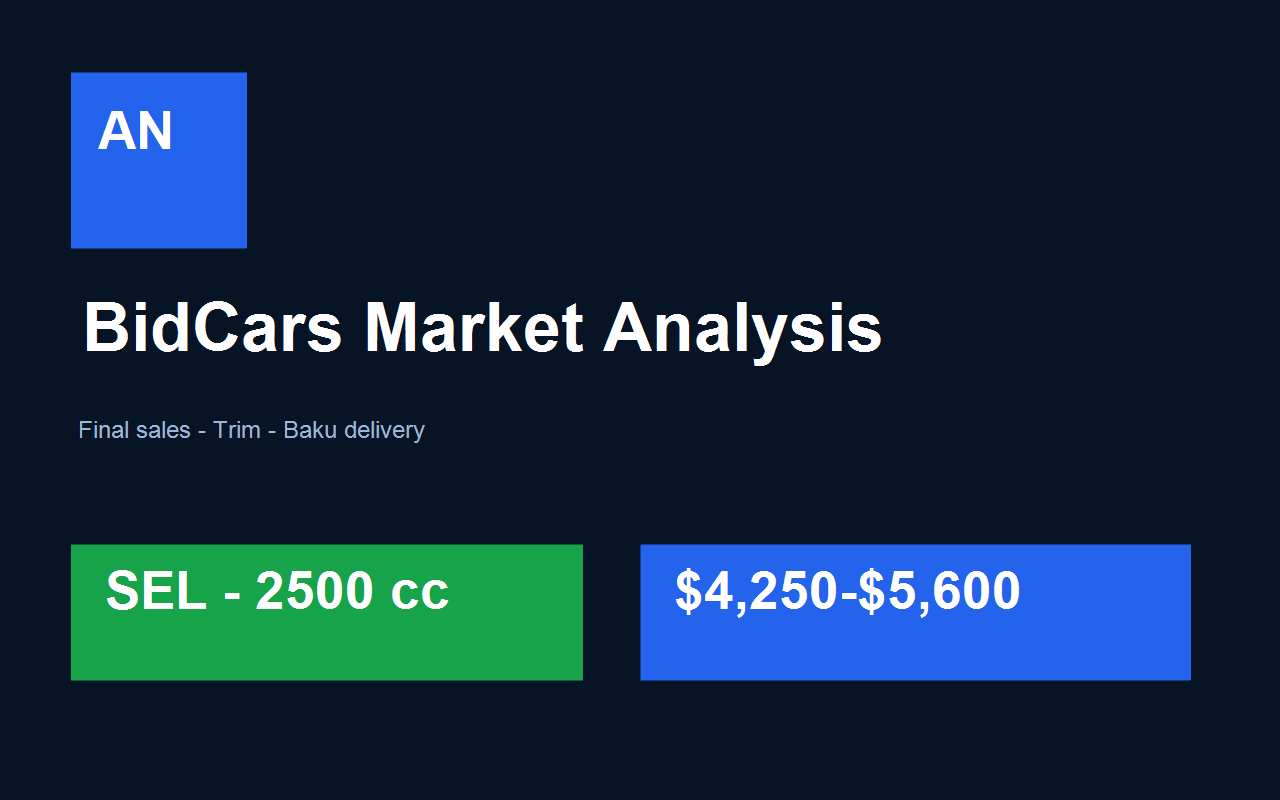
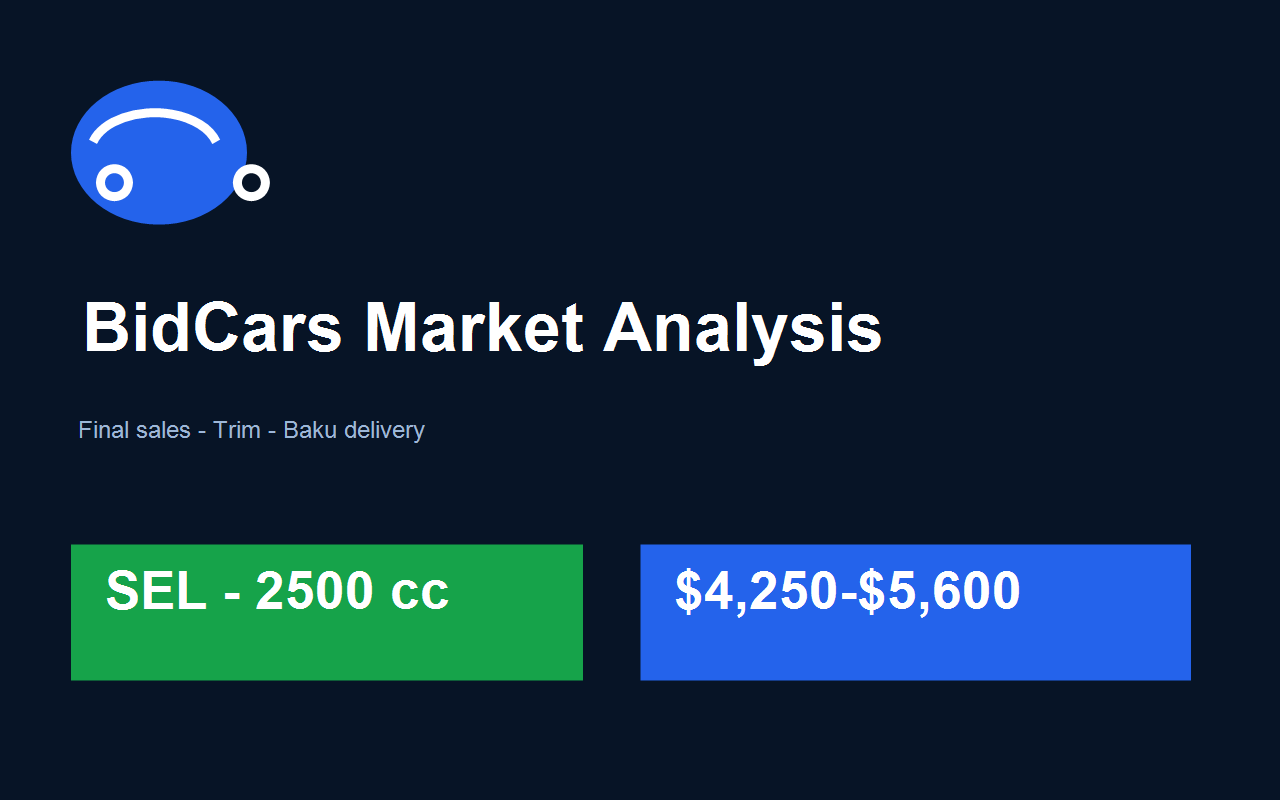
fix: load collector env and refresh extension branding

Changed region(s): [[0.0312, 0.0625, 0.2188, 0.3125]]

diff --git a/extensions/autonex-bidcars-market/content.js b/extensions/autonex-bidcars-market/content.js
@@ -110,8 +110,8 @@
     Object.assign(panel.style, { position: "fixed", right: "14px", top: "92px", zIndex: "2147483646" });
     shadow = panel.attachShadow({ mode: "open" });
     shadow.innerHTML = `<style>
-      *{box-sizing:border-box} .box{width:370px;max-height:calc(100vh - 110px);overflow:auto;background:#071426;color:#eef6ff;border:1px solid #25466f;border-radius:18px;box-shadow:0 18px 55px #0007;font:13px/1.35 Inter,Arial,sans-serif}.head{position:sticky;top:0;z-index:2;display:flex;align-items:center;gap:10px;padding:13px 14px;background:#0b1c33;border-bottom:1px solid #263b59}.logo{display:grid;place-items:center;width:36px;height:36px;border-radius:11px;background:#2463eb;font-weight:900}.title{font-size:16px;font-weight:900}.sub{font-size:11px;color:#92afd3}.icon{margin-left:auto;background:#142740;color:#fff;border:1px solid #345070;border-radius:9px;padding:7px 10px;cursor:pointer}.body{padding:12px}.hero{padding:12px;border:1px solid #285590;background:linear-gradient(135deg,#102951,#0b1b34);border-radius:14px}.hero small{color:#9db7d8}.hero strong{display:block;font-size:21px;margin:4px 0}.grid{display:grid;grid-template-columns:1fr 1fr;gap:8px;margin-top:10px}.metric{padding:9px;background:#0b1b31;border:1px solid #273f60;border-radius:11px}.metric span{display:block;color:#91a8c8;font-size:10px;text-transform:uppercase;font-weight:800}.metric b{font-size:15px}.filters{display:grid;grid-template-columns:1fr 1fr;gap:8px;margin-top:10px}label{font-size:10px;color:#91a8c8;font-weight:800;text-transform:uppercase}select,input{width:100%;margin-top:4px;background:#0d1b30;color:#fff;border:1px solid #324967;border-radius:9px;padding:8px;font:inherit}.wide{grid-column:1/-1}.actions{display:flex;gap:7px;margin-top:10px}button{border:0;border-radius:10px;padding:9px 11px;font-weight:800;cursor:pointer}.primary{flex:1;background:#16a34a;color:#fff}.secondary{background:#172a45;color:#dcecff;border:1px solid #315073}.danger{background:#4b1820;color:#ffb4bd;border:1px solid #81303d}.note{margin-top:9px;color:#91a8c8;font-size:11px}.error{color:#ff9aa7}.baku{margin-top:10px;padding:12px;text-align:center;background:#10274d;border:1px solid #2864b2;border-radius:13px}.baku strong{display:block;font-size:22px}.list{margin-top:10px;border-top:1px solid #263b59}.row{display:flex;justify-content:space-between;gap:8px;padding:8px 0;border-bottom:1px solid #1d304c}.row span{color:#9bb0cf}.hidden{display:none!important}.empty{padding:18px;text-align:center;color:#9bb0cf}@media(max-width:600px){.box{width:min(360px,calc(100vw - 20px))}}
-    </style><section class="box"><header class="head"><div class="logo">AN</div><div><div class="title">Bazar Analizi</div><div class="sub">Final satışlar · son 30 gün</div></div><button class="icon" id="close">✕</button></header><main class="body"><div id="view" class="empty">Final satışlar oxunur…</div></main></section>`;
+      *{box-sizing:border-box} .box{width:370px;max-height:calc(100vh - 110px);overflow:auto;background:#071426;color:#eef6ff;border:1px solid #25466f;border-radius:18px;box-shadow:0 18px 55px #0007;font:13px/1.35 Inter,Arial,sans-serif}.head{position:sticky;top:0;z-index:2;display:flex;align-items:center;gap:10px;padding:13px 14px;background:#0b1c33;border-bottom:1px solid #263b59}.logo{display:grid;place-items:center;width:38px;height:38px;border-radius:11px;background:#0d1e36;border:1px solid #315991}.logo svg{width:31px;height:31px}.title{font-size:16px;font-weight:900}.sub{font-size:11px;color:#92afd3}.icon{margin-left:auto;background:#142740;color:#fff;border:1px solid #345070;border-radius:9px;padding:7px 10px;cursor:pointer}.body{padding:12px}.hero{padding:12px;border:1px solid #285590;background:linear-gradient(135deg,#102951,#0b1b34);border-radius:14px}.hero small{color:#9db7d8}.hero strong{display:block;font-size:21px;margin:4px 0}.grid{display:grid;grid-template-columns:1fr 1fr;gap:8px;margin-top:10px}.metric{padding:9px;background:#0b1b31;border:1px solid #273f60;border-radius:11px}.metric span{display:block;color:#91a8c8;font-size:10px;text-transform:uppercase;font-weight:800}.metric b{font-size:15px}.filters{display:grid;grid-template-columns:1fr 1fr;gap:8px;margin-top:10px}label{font-size:10px;color:#91a8c8;font-weight:800;text-transform:uppercase}select,input{width:100%;margin-top:4px;background:#0d1b30;color:#fff;border:1px solid #324967;border-radius:9px;padding:8px;font:inherit}.wide{grid-column:1/-1}.actions{display:flex;gap:7px;margin-top:10px}button{border:0;border-radius:10px;padding:9px 11px;font-weight:800;cursor:pointer}.primary{flex:1;background:#16a34a;color:#fff}.secondary{background:#172a45;color:#dcecff;border:1px solid #315073}.danger{background:#4b1820;color:#ffb4bd;border:1px solid #81303d}.note{margin-top:9px;color:#91a8c8;font-size:11px}.error{color:#ff9aa7}.baku{margin-top:10px;padding:12px;text-align:center;background:#10274d;border:1px solid #2864b2;border-radius:13px}.baku strong{display:block;font-size:22px}.list{margin-top:10px;border-top:1px solid #263b59}.row{display:flex;justify-content:space-between;gap:8px;padding:8px 0;border-bottom:1px solid #1d304c}.row span{color:#9bb0cf}.hidden{display:none!important}.empty{padding:18px;text-align:center;color:#9bb0cf}@media(max-width:600px){.box{width:min(360px,calc(100vw - 20px))}}
+    </style><section class="box"><header class="head"><div class="logo"><svg viewBox="0 0 64 64" aria-hidden="true"><path d="M10 40c2-7 7-11 14-12l6-10h15l8 10c5 1 8 5 9 12h-7c-1-4-4-6-8-6s-7 2-8 6H27c-1-4-4-6-8-6s-7 2-8 6z" fill="#2f7cff"/><circle cx="19" cy="41" r="6" fill="none" stroke="white" stroke-width="3"/><circle cx="47" cy="41" r="6" fill="none" stroke="white" stroke-width="3"/><path d="M16 15h9l5-6 6 12 6-8 7 7" fill="none" stroke="#65f0c1" stroke-width="3.5" stroke-linecap="round" stroke-linejoin="round"/></svg></div><div><div class="title">Bazar Analizi</div><div class="sub">Final satışlar · son 30 gün</div></div><button class="icon" id="close">✕</button></header><main class="body"><div id="view" class="empty">Final satışlar oxunur…</div></main></section>`;
     document.documentElement.appendChild(panel);
     shadow.getElementById("close").onclick = () => panel.classList.add("hidden");
   }

diff --git a/extensions/autonex-bidcars/content.js b/extensions/autonex-bidcars/content.js
@@ -17,7 +17,8 @@
       .card { overflow:hidden; border:1px solid #273449; border-radius:18px; background:#0b1220; box-shadow:0 22px 60px rgba(3,7,18,.42); }
       .head { display:flex; align-items:center; justify-content:space-between; gap:10px; padding:12px 13px; background:linear-gradient(135deg,#071426,#11223c); border-bottom:1px solid #273449; }
       .brand { display:flex; align-items:center; gap:9px; font-weight:800; letter-spacing:-.02em; }
-      .mark { display:grid; place-items:center; width:29px; height:29px; border-radius:9px; color:white; background:#2563eb; }
+      .mark { display:grid; place-items:center; width:31px; height:31px; border-radius:9px; color:white; background:#0d1e36; border:1px solid #315991; }
+      .mark svg { width:25px; height:25px; }
       .sub { color:#8da2bd; font-size:11px; margin-top:2px; font-weight:500; }
       button { font:inherit; }
       .ghost { border:1px solid #334155; border-radius:9px; background:#172033; color:#dbeafe; padding:7px 9px; cursor:pointer; }
@@ -76,7 +77,7 @@
     </style>
     <section class="card">
       <header class="head">
-        <div class="brand"><span class="mark">AN</span><div>Auto Nex<div class="sub">BidCars ümumi qiymət hesabı</div></div></div>
+        <div class="brand"><span class="mark"><svg viewBox="0 0 64 64" aria-hidden="true"><path d="M10 40c2-7 7-11 14-12l6-10h15l8 10c5 1 8 5 9 12h-7c-1-4-4-6-8-6s-7 2-8 6H27c-1-4-4-6-8-6s-7 2-8 6z" fill="#2f7cff"/><circle cx="19" cy="41" r="6" fill="none" stroke="white" stroke-width="3"/><circle cx="47" cy="41" r="6" fill="none" stroke="white" stroke-width="3"/><path d="M31 15h20M41 8v14" stroke="#65f0c1" stroke-width="4" stroke-linecap="round"/></svg></span><div>Auto Nex<div class="sub">BidCars ümumi qiymət hesabı</div></div></div>
         <div><button class="ghost" id="refresh" type="button" title="Səhifədən yenidən oxu">↻ Oxu</button> <button class="ghost" id="close" type="button" title="Bağla">✕</button></div>
       </header>
       <div class="body">

diff --git a/apps/web/api/src/app.module.ts b/apps/web/api/src/app.module.ts
@@ -22,7 +22,7 @@ import { MarketSalesModule } from './market-sales/market-sales.module';
 
 @Module({
   imports: [
-    ConfigModule.forRoot({ isGlobal: true, envFilePath: ['.env', '../../.env'] }),
+    ConfigModule.forRoot({ isGlobal: true, envFilePath: ['.env', '../../../.env', '../../.env'] }),
     ThrottlerModule.forRoot({ throttlers: [{ ttl: 60000, limit: 80 }] }),
     PrismaModule,
     AuthModule,

diff --git a/extensions/autonex-bidcars-store-assets/store-listing.md b/extensions/autonex-bidcars-store-assets/store-listing.md
@@ -1,0 +1,17 @@
+# Chrome Web Store listing
+
+## Name
+Auto Nex – BidCars Final Price Calculator
+
+## Short description
+Calculate BidCars auction fee, US–Baku transport, Azerbaijan customs and final AZN cost directly on a lot page.
+
+## Detailed description
+The extension reads the selected bid, auction house, location, year, engine and fuel type from BidCars. It combines the vehicle price with the auction fee, Auto Nex transport tariff and Azerbaijan customs estimate, then shows the final amount in AZN. Copart and IAAI tariffs are handled separately. Hybrid, diesel, electric and gasoline vehicles use their corresponding customs type.
+
+This extension is an independent calculator and is not affiliated with BidCars, Copart, IAAI or Azerbaijan customs authorities. Results are estimates and must be verified before purchase.
+
+## Assets
+- Icon: `../autonex-bidcars/icons/icon128.png`
+- Promo: `small-promo-440x280.png`
+- Screenshot: `screenshot-1280x800.png`

diff --git a/extensions/autonex-bidcars-store-assets/privacy-policy.md b/extensions/autonex-bidcars-store-assets/privacy-policy.md
@@ -1,0 +1,7 @@
+# Auto Nex – BidCars Final Price Calculator Privacy Policy
+
+Last updated: October 10, 2026
+
+The extension reads public vehicle and price information from supported BidCars pages opened by the user. It sends the lot URL and vehicle calculation fields to the configured Auto Nex API to obtain auction, transport and customs estimates. It does not collect passwords, payment-card data, private messages or browsing history outside supported pages.
+
+Extension settings and locally learned transport tariffs are stored using Chrome extension storage. Users can remove this data by uninstalling the extension or clearing its storage. The extension is not affiliated with BidCars, Copart or IAAI.
